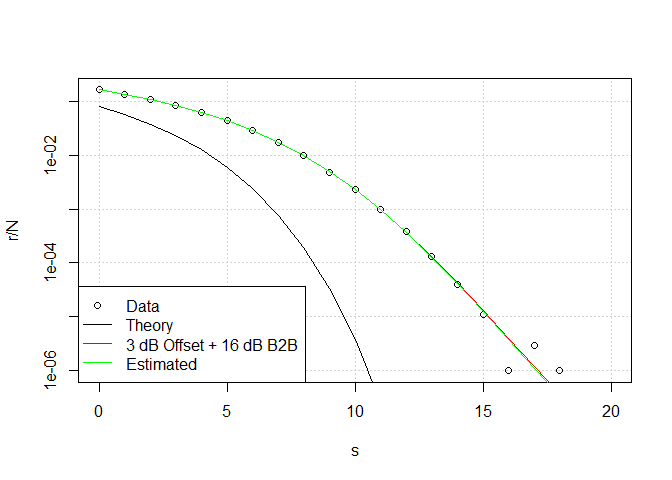
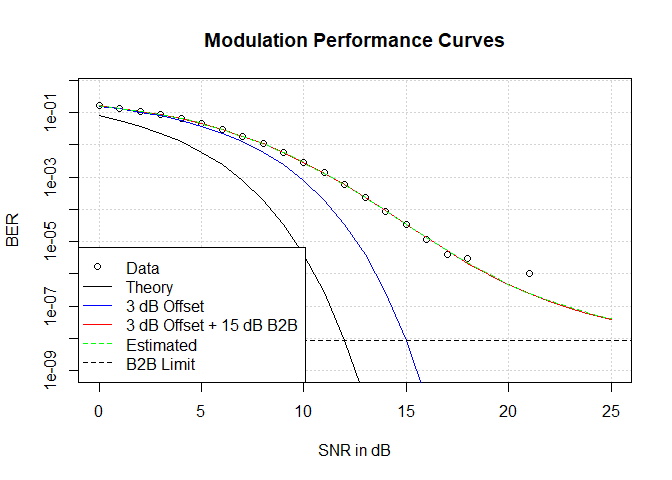
Updated readme for release.

diff --git a/README.md b/README.md
@@ -1,7 +1,7 @@
 README.rmd
 ================
 Phil Shea
-2022-09-07
+2022-09-09
 
 # `binfunest`
 
@@ -42,16 +42,18 @@ that the generated samples include zeros, and that the first of these
 parameter estimate.
 
 ``` r
-library(B2BQ, stats4)
+require( binfunest)
+require( stats4)
+#> Loading required package: stats4
 QPSKdB.B2B <- B2BConvert( QPSKdB)
 O1 <- 3 # offset
-B1 <- 16 # B2BQ
-s <- 0:20 # SNR Range 
+B1 <- 15 # B2BQ
+s <- 0:25 # SNR Range 
 N <- 1000000 # Number of samples
 (r <- rbinom( length( s), N, QPSKdB.B2B( s, B1, O1)))
-#>  [1] 161545 134508 108138  83957  62196  43660  28417  17258   9804   4857
-#> [11]   2322    973    389    130     40     11      1      3      1      0
-#> [21]      0
+#>  [1] 161958 135306 109002  85035  63269  44868  29705  18587  10921   5923
+#> [11]   2749   1382    593    234     88     34     12      4      3      0
+#> [21]      0      1      0      0      0      0
 df <- data.frame( Errors=r, SNR=s, N=N) # place data in data frame
 
 ## This shows how you could do the work by hand
@@ -60,32 +62,40 @@ llsb2 <- function( b2b, offset)
 mle1 <- stats4::mle( llsb2, start=c( b2b=20, offset=0), nobs=length(s),
                    method="Nelder-Mead")
 stats4::coef( mle1)
-#>       b2b    offset 
-#> 16.070988  3.009852
+#>      b2b   offset 
+#> 14.96665  2.99366
 # Below is the new function
 est1 <-  mleB2B( data=df, Errors="Errors", N=N, f=QPSKdB.B2B,
                  fparms=list( x="SNR"), start=c(b2b=20, offset=0))
 
 (est1coef <- stats4::coef( est1))
-#>       b2b    offset 
-#> 16.070988  3.009852
+#>      b2b   offset 
+#> 14.96665  2.99366
 ```
 
 The plot below compares the theoretical curve to the curve with the
-chosen B2B and offset, and the curve with the estimated parameters.
+chosen B2B and offset, and the curve with the estimated parameters. Note
+that all samples above 18 dB SNR returned zero, except the 21 dB point.
+The Estimated line is dashed so the 3 dB + Offset line, which it
+overlays, is visible.
 
 ``` r
-plot( s, y=r/N, log='y', type='p', panel.first = grid())
-#> Warning in xy.coords(x, y, xlabel, ylabel, log): 2 y values <= 0 omitted from
+plot( s, y=r/N, log='y', type='p', panel.first = grid(), ylim=c(1e-9,0.5),
+      main="Modulation Performance Curves", xlab="SNR in dB",
+      ylab="BER")
+#> Warning in xy.coords(x, y, xlabel, ylabel, log): 6 y values <= 0 omitted from
 #> logarithmic plot
 lines( s, QPSKdB( s))
 lines( s, QPSKdB.B2B( s, B1, O1), col='red')
-lines( s, y=QPSKdB.B2B( s, est1coef[1],  est1coef[2]), col="green")
+lines( s, QPSKdB.B2B( s, +Inf, O1), col='blue')
+lines( s, y=QPSKdB.B2B( s, est1coef[1],  est1coef[2]), col="green", lty=2)
+abline( h=QPSKdB.B2B( B1, +Inf, O1), col='black', lty=2)
 legend( "bottomleft",
-        legend=c( "Data",  "Theory", "3 dB Offset + 16 dB B2B", 
-                  "Estimated"),
-        lty=c( NA, 1, 1, 1), col=c( 'black', 'black', 'red', 'green'),
-        pch=c( 1, NA, NA, NA))
+        legend=c( "Data",  "Theory", "3 dB Offset", "3 dB Offset + 15 dB B2B", 
+                  "Estimated", "B2B Limit"),
+        lty=c( NA, 1, 1, 1, 2, 2), col=c( 'black', 'black', 'blue', 'red',
+                                          'green'),
+        pch=c( 1, NA, NA, NA, NA, NA))
 ```
 
-<img src="man/figures/README-plotQab-1.png" width="100%" />
+<img src="man/figures/README-plotQab-1.png" alt="Note all samples above 19 dB SNR returned zero.  The Estimated line is dashed so the 3 dB + Offset line, which it overlays, is visible." width="100%" />
